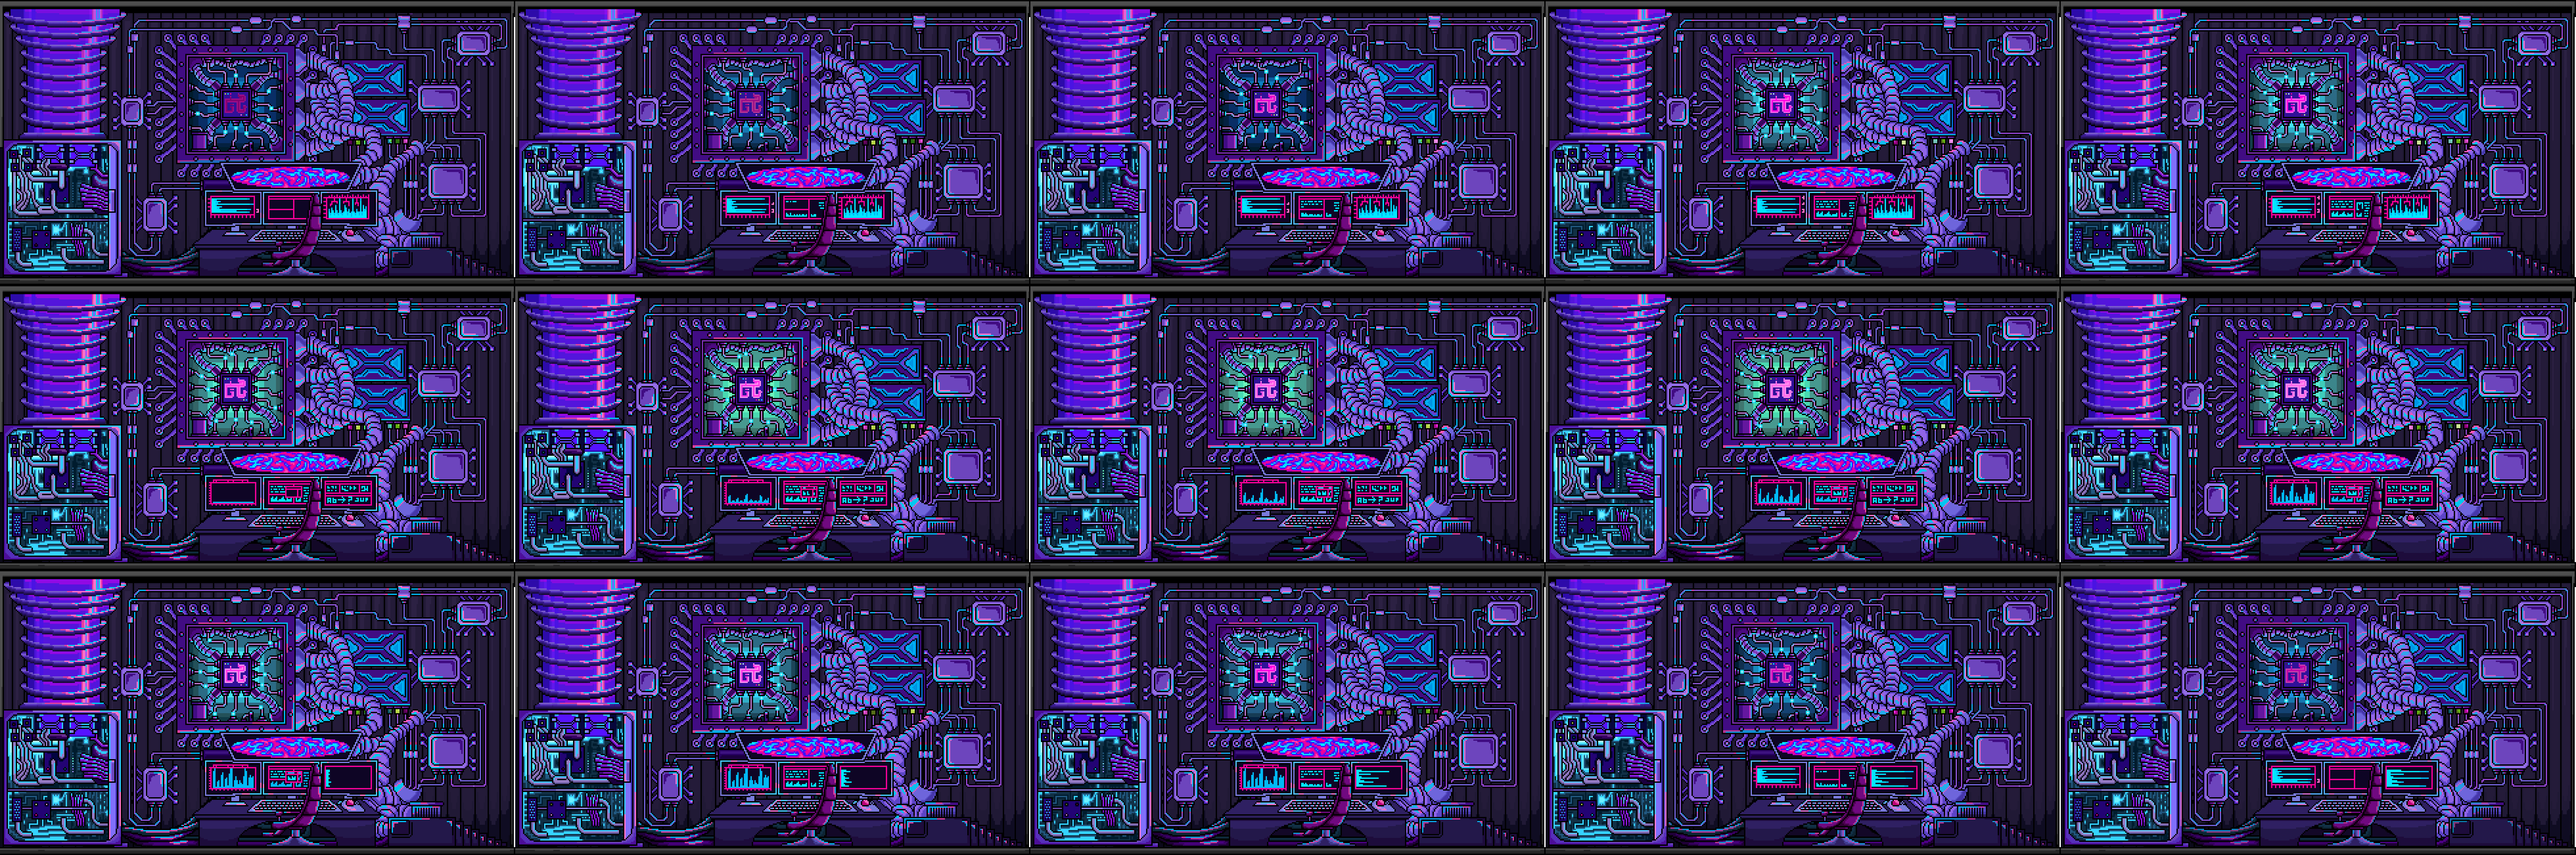
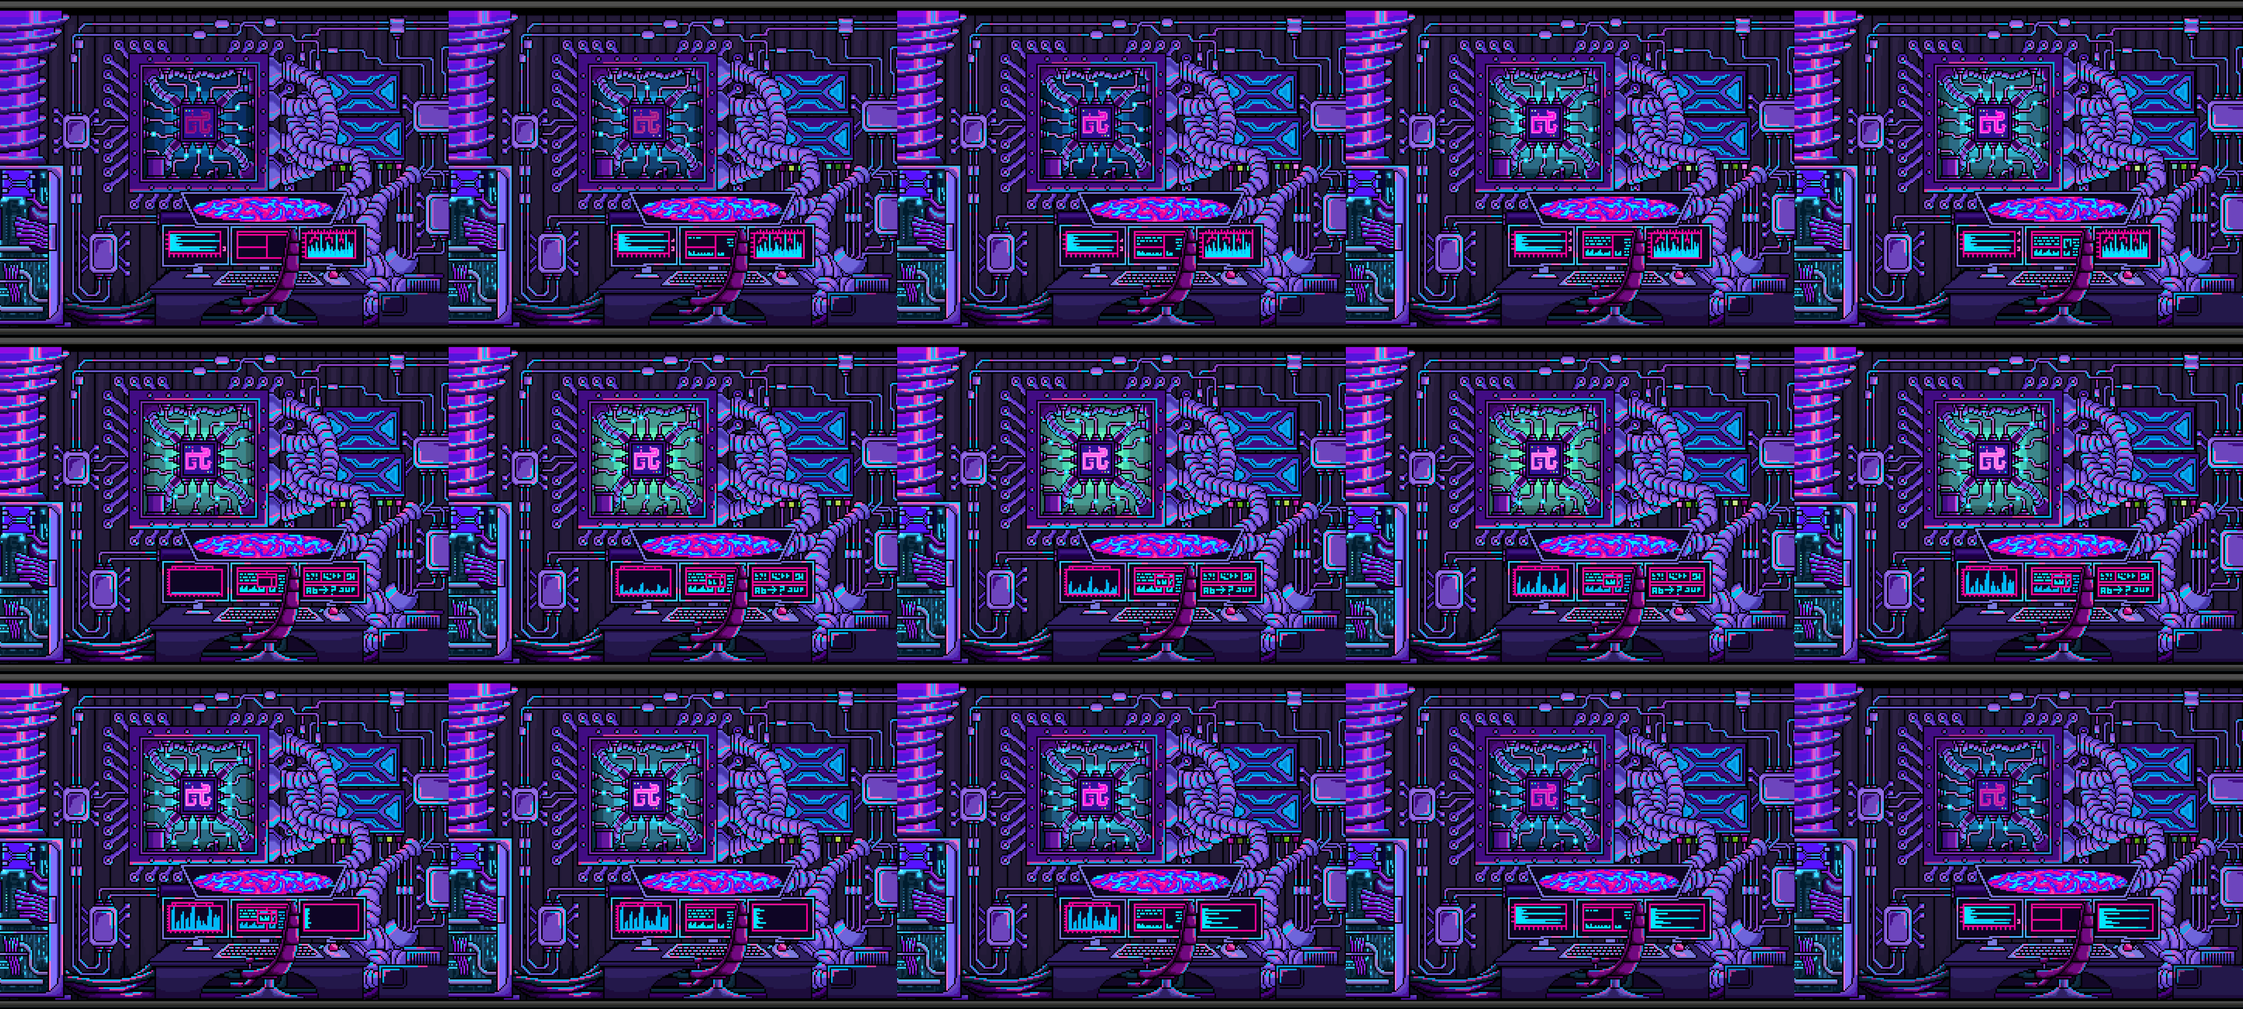
Update sprite sheets

diff --git a/Game/src/scenes/Game.ts b/Game/src/scenes/Game.ts
@@ -20,20 +20,19 @@ export class Game extends Scene {
       key: "animatedBackground",
       frames: this.anims.generateFrameNumbers("animatedBackground", {
         start: 0,
-        end: 15,
+        end: 14,
       }),
-      frameRate: 10,
+      frameRate: 30,
       repeat: -1,
     });
 
     const background = this.add.sprite(512, 384, "animatedBackground");
     background.setOrigin(0.5, 0.5);
-    background.play("animateBackground");
+    background.play("animatedBackground");
 
     // this.background = this.add.image(512, 384, "backgroundCity");
     // this.background.setScale(1.2);
     this.professor = this.add.image(940, 500, "professor");
-    this.professor.setScale(2.2);
     this.cloud = this.add.image(450, 340, "cloudSpeech");
     this.cloud.setScale(1.2);
     this.gpu = this.add.image(500, 150, "gpu");

diff --git a/Game/src/scenes/Preloader.ts b/Game/src/scenes/Preloader.ts
@@ -31,7 +31,7 @@ export class Preloader extends Scene {
     this.load.image("buttonPlay", "buttonPlay.png");
 
     this.load.image("professor", "professor.png");
-    this.load.image("backgroundCity", "backgroundCity.png");
+    // this.load.image("backgroundCity", "backgroundCity.png");
     this.load.image("cloudSpeech", "cloudSpeech.png");
     this.load.image("gpu", "gpu.png");
 
